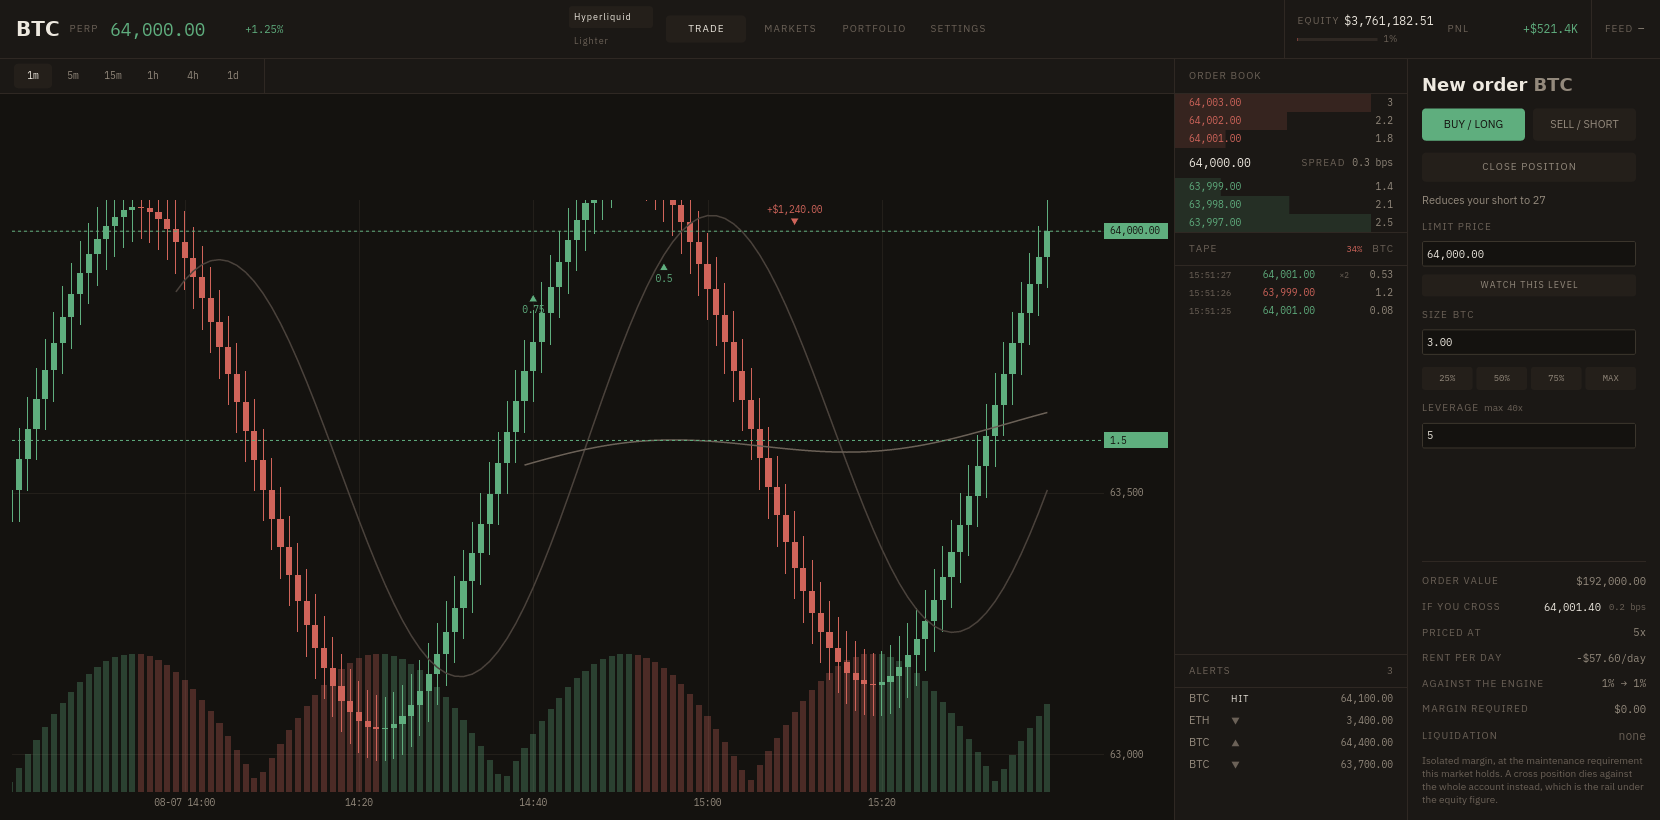
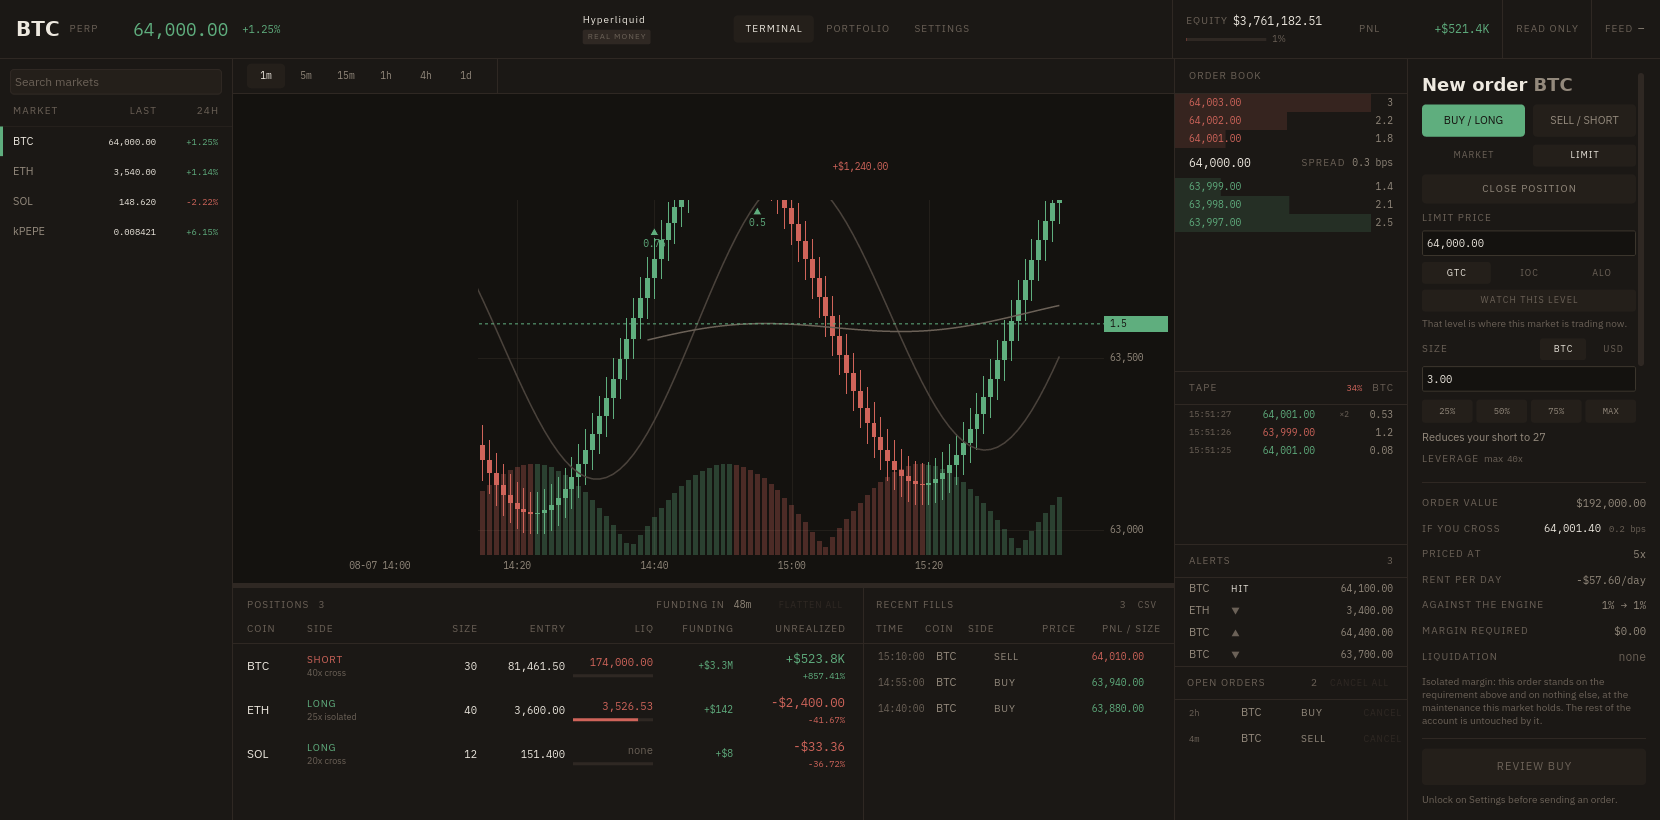
docs(trading): retake the terminal on the screen it is now
`screenshots/trading.png` still held the TRADE/MARKETS split, a venue list
stacked under the header, and a ticket with no order type on it — a screen
that has not existed since the pages were recombined. Retaken from
`trading_the_whole_terminal_renders_from_fixtures` (preset `held`, viewport
1660x820), so it shows TERMINAL | PORTFOLIO | SETTINGS, the network named in
the header beside its REAL MONEY badge, the markets rail, market-or-limit and
GTC/IOC/ALO on the ticket, and the positions table under its funding
countdown.

The caption says what is on it and carries the command that makes it again,
the way the gate's already does. `screenshots/gate.png` is left alone: a fresh
capture of `trading_gate_gates_the_app` is byte-for-byte the tracked one, so
#523 already retook it.

The paragraph above the picture still opened the app on an address prompt.
The gate leads with the wallet now, so it says so, and points at the section
that explains why.

diff --git a/examples/trading/README.md b/examples/trading/README.md
@@ -23,19 +23,34 @@ cargo run -p trading-example
 cargo test -p trading-example
 ```
 
-The app opens on an address prompt, prefilled with a well-known account so
-there is something to look at on the first run. Press **Connect** to read it,
-type your own, or **Browse markets** to use market data only; the terminal's
-positions panel offers the prompt again if you change your mind, and so does
-the settings page. Browsing without one, every panel that needs an account
-says so rather than reporting that the account has nothing in it.
+The app opens on a gate that leads with **Import a wallet** — see [where
+onboarding starts](#where-onboarding-starts). One press behind it, **Watch an
+address** takes an address read-only, prefilled with a well-known account so
+there is something to look at on the first run, and **Browse markets** uses
+market data only; the terminal's positions panel offers the gate again if you
+change your mind, and so does the settings page. Browsing without an address,
+every panel that needs an account says so rather than reporting that the
+account has nothing in it.
 
 An address is checked before it is sent, because the exchange answers a
 malformed one with a plain-text parser complaint rather than JSON — so without
 the check, a typo reads as "Hyperliquid sent bad JSON", the one error that
 blames the exchange for something you just typed.
 
-![Trading](screenshots/trading.png)
+One screen at 1660×820, drawn from the `held` fixtures so every figure on it is
+one the tests assert: the markets rail; the chart, with this account's fills
+marked on the candles they landed in and its resting buy ruled across at the
+size still waiting; the book, the tape, the alerts and the open orders beside
+it; the order ticket, from side and market-or-limit down to what crossing
+would cost; and the positions — with the countdown to their next funding —
+over the recent fills.
+
+```bash
+ICE_TEST_ARTIFACT_DIR=target/trading-evidence \
+  cargo test -p trading-example __ice_tests::trading_the_whole_terminal_renders_from_fixtures -- --exact --nocapture
+```
+
+![The terminal](screenshots/trading.png)
 
 ## The menu bar mini status
 
